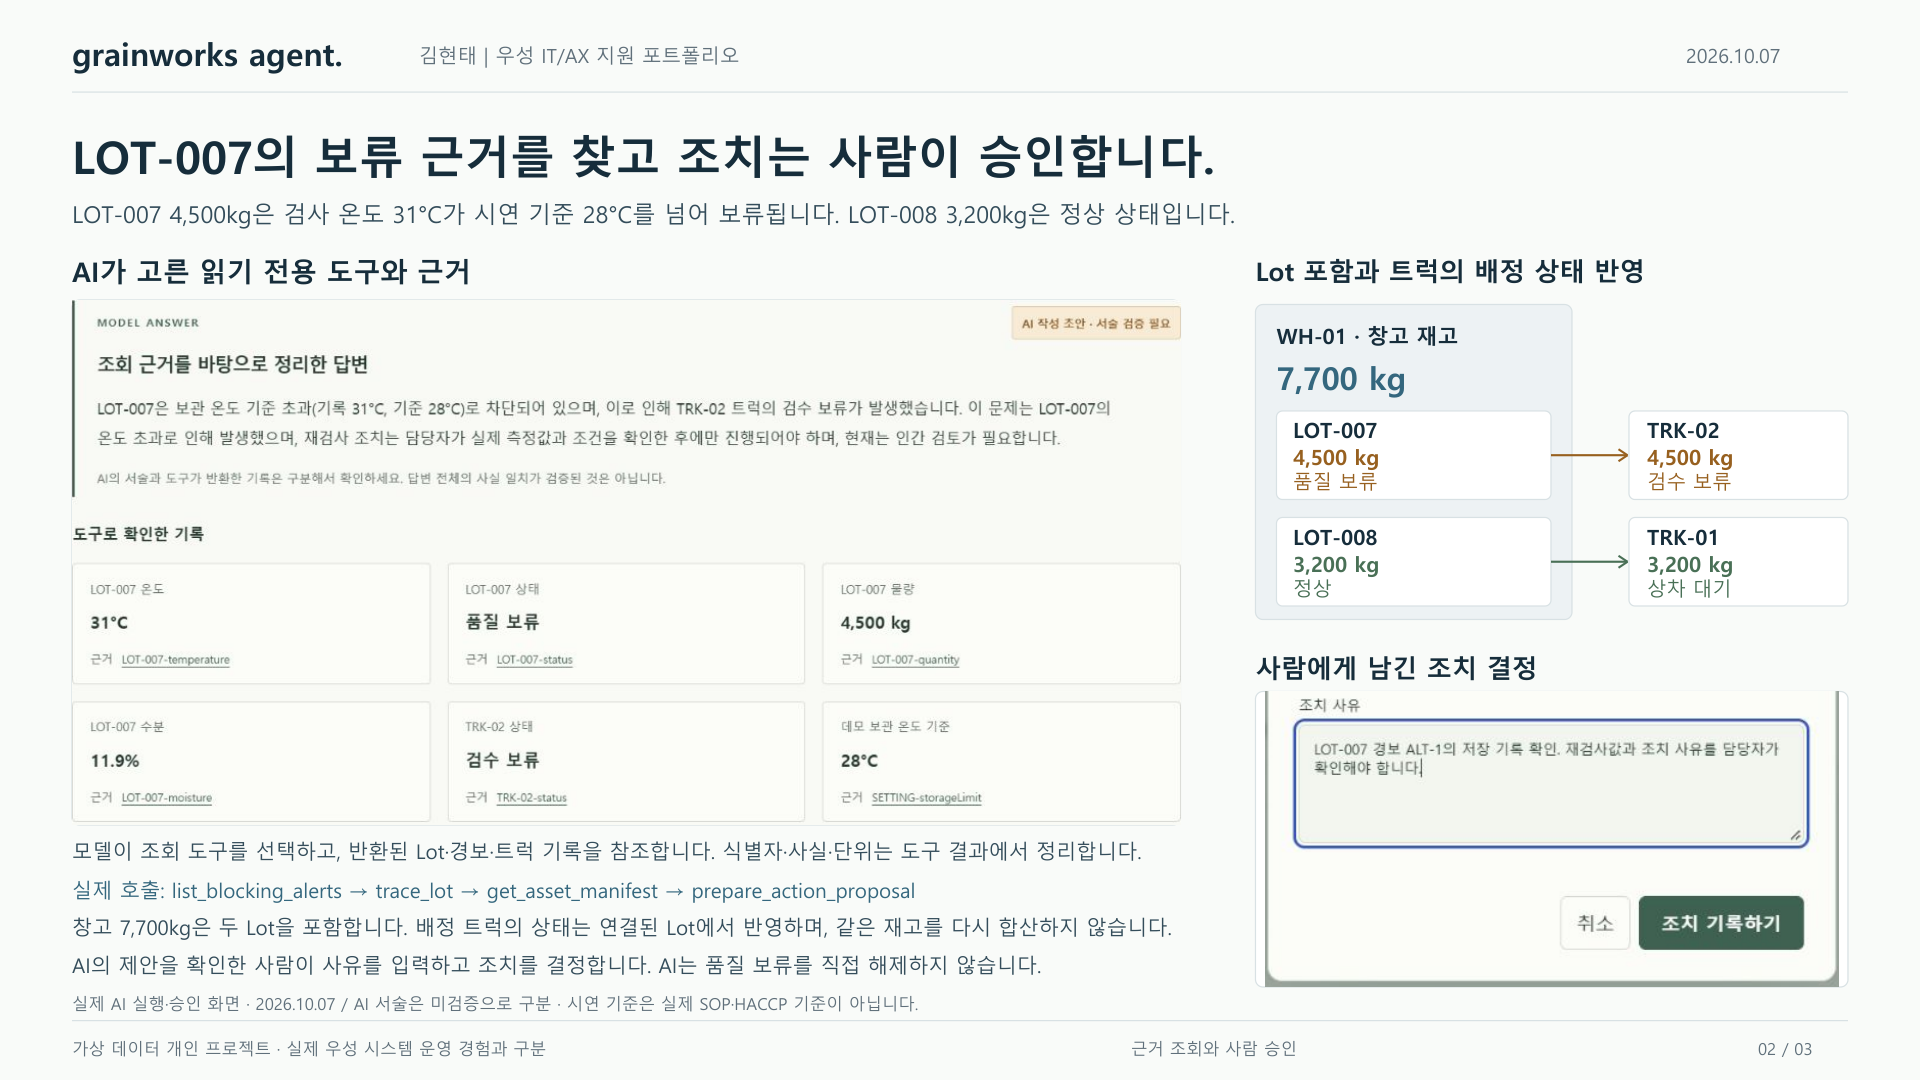
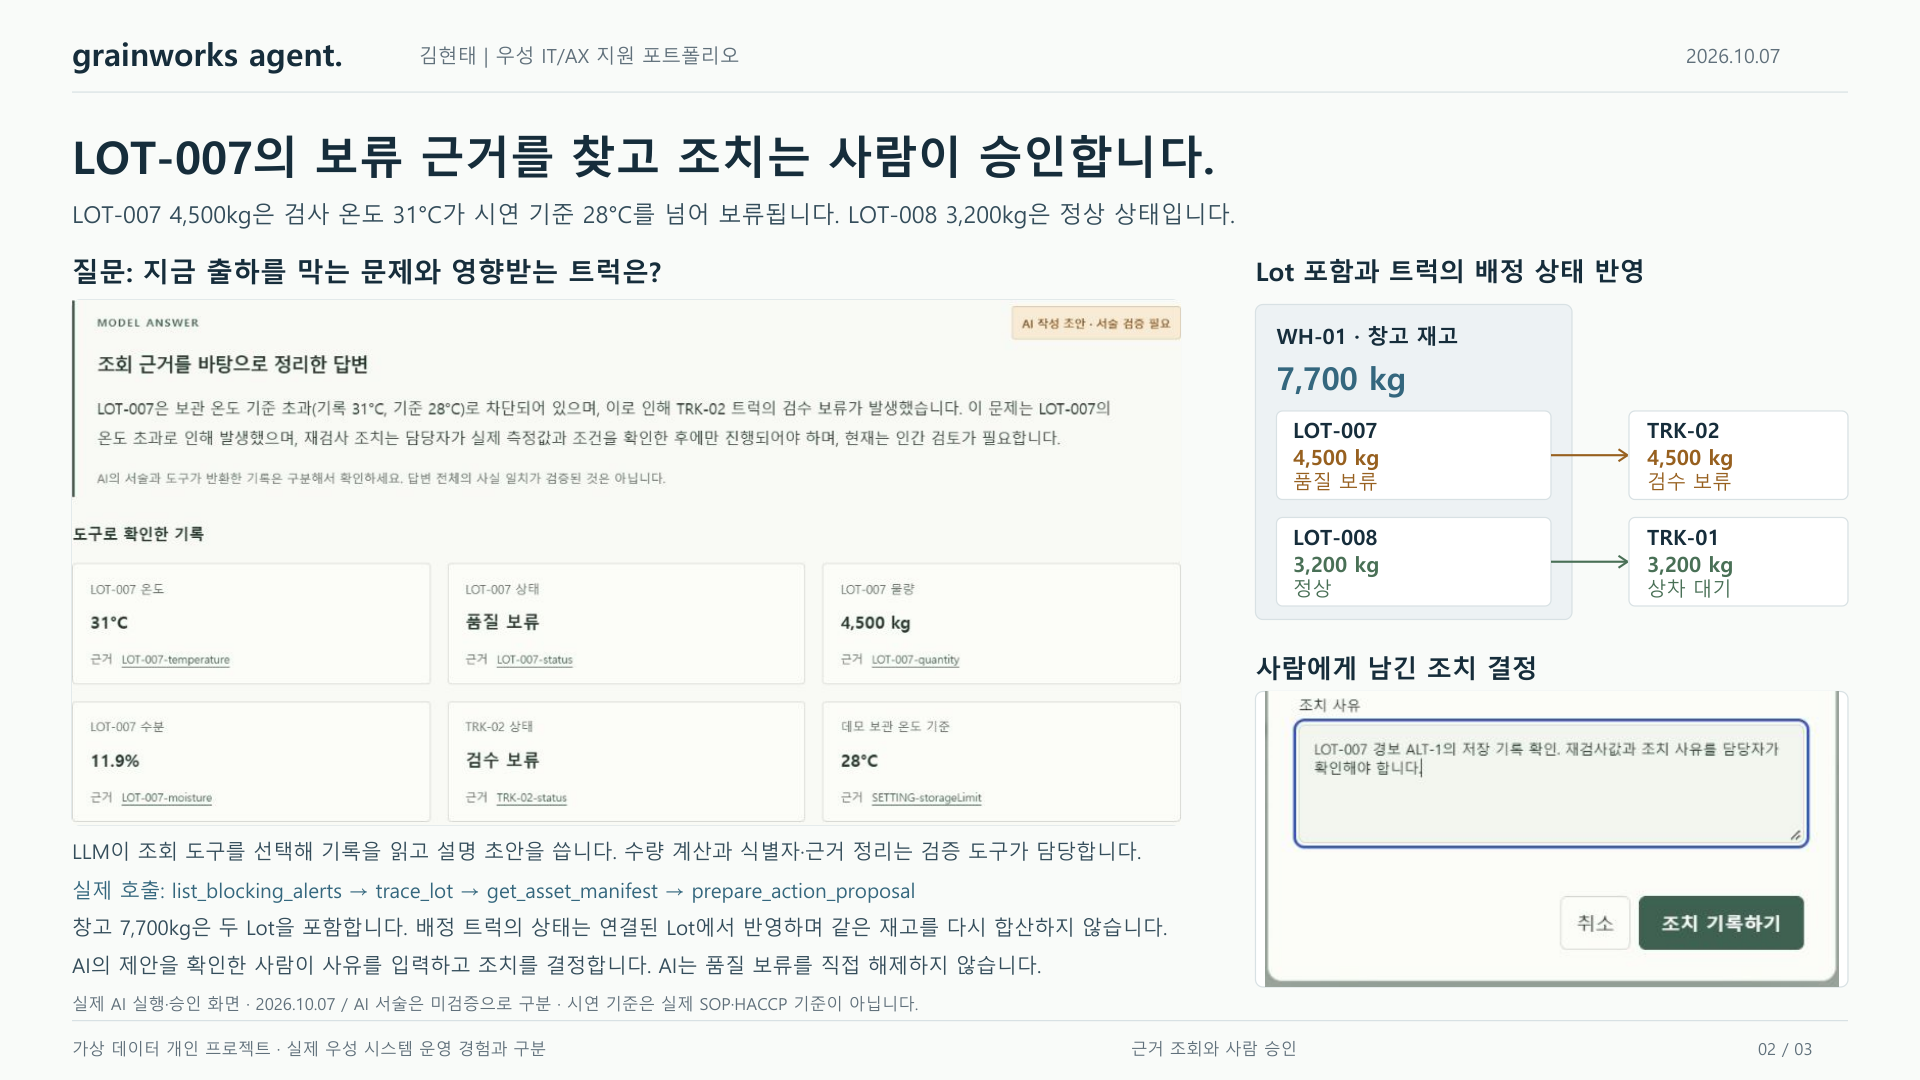
Clarify AX purpose and AI roles in portfolio v6

Changed region(s): [[0.0312, 0.7639, 0.5625, 0.7944], [0.0312, 0.2444, 0.3438, 0.275], [0.4375, 0.825, 0.5938, 0.8861]]

diff --git a/README.md b/README.md
@@ -22,7 +22,7 @@ Qwen 모델이 Ollama의 native `tool_calls`를 반환하면 LangGraph가 허용
 
 ## 60초 시연과 포트폴리오
 
-- [3페이지 포트폴리오](docs/portfolio/portfolio.pdf)
+- [3페이지 포트폴리오](docs/portfolio/portfolio.pdf) - v6: AX 목적·본인 역할·LLM/계산 도구 구분 보강
 - [실제 화면으로 구성한 60초 시연](docs/portfolio/demo-60s.mp4)
 - [실제 모델 평가 기록](docs/evaluation/live-model.json) · [평가 설명](docs/evaluation/README.md)
 - [문서 추출 검증과 한글 OCR 한계](DOCUMENT_INTAKE.md)
